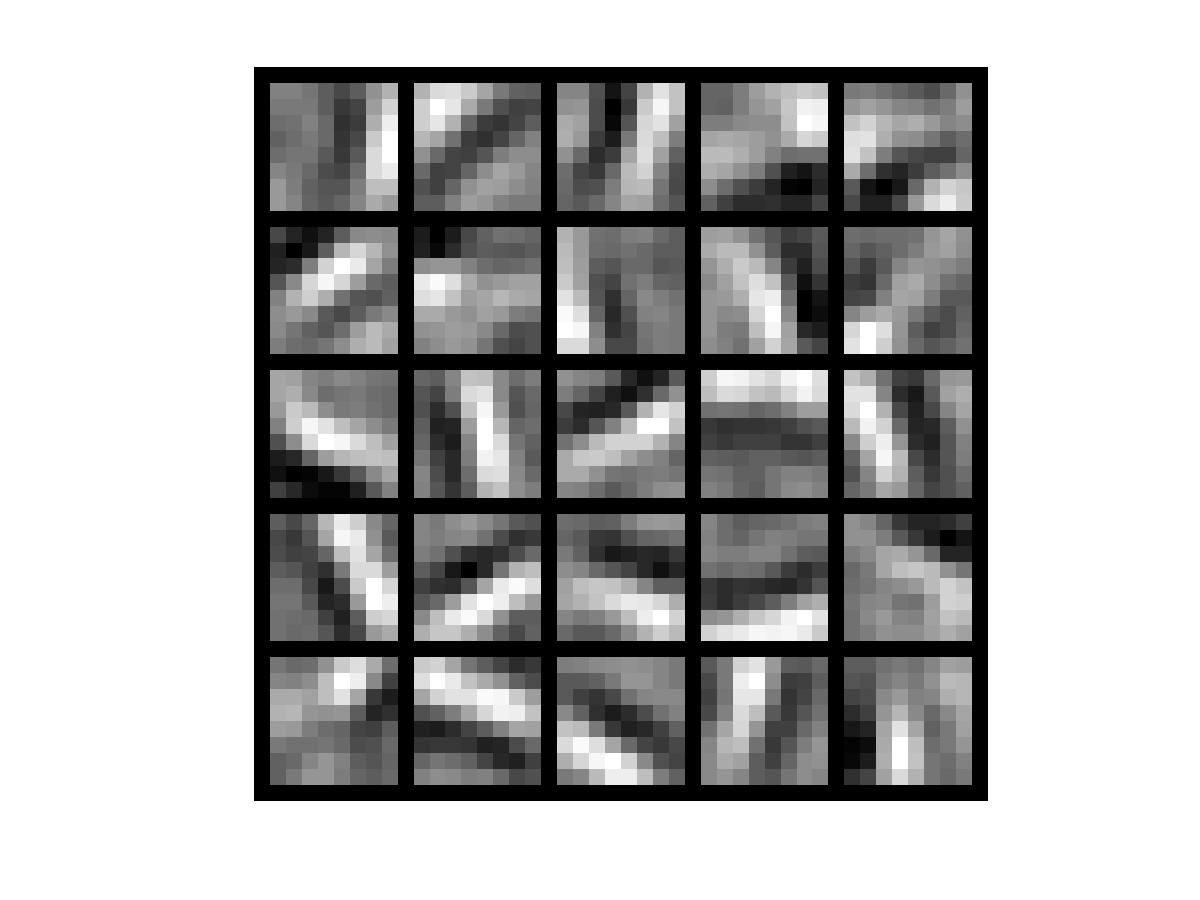
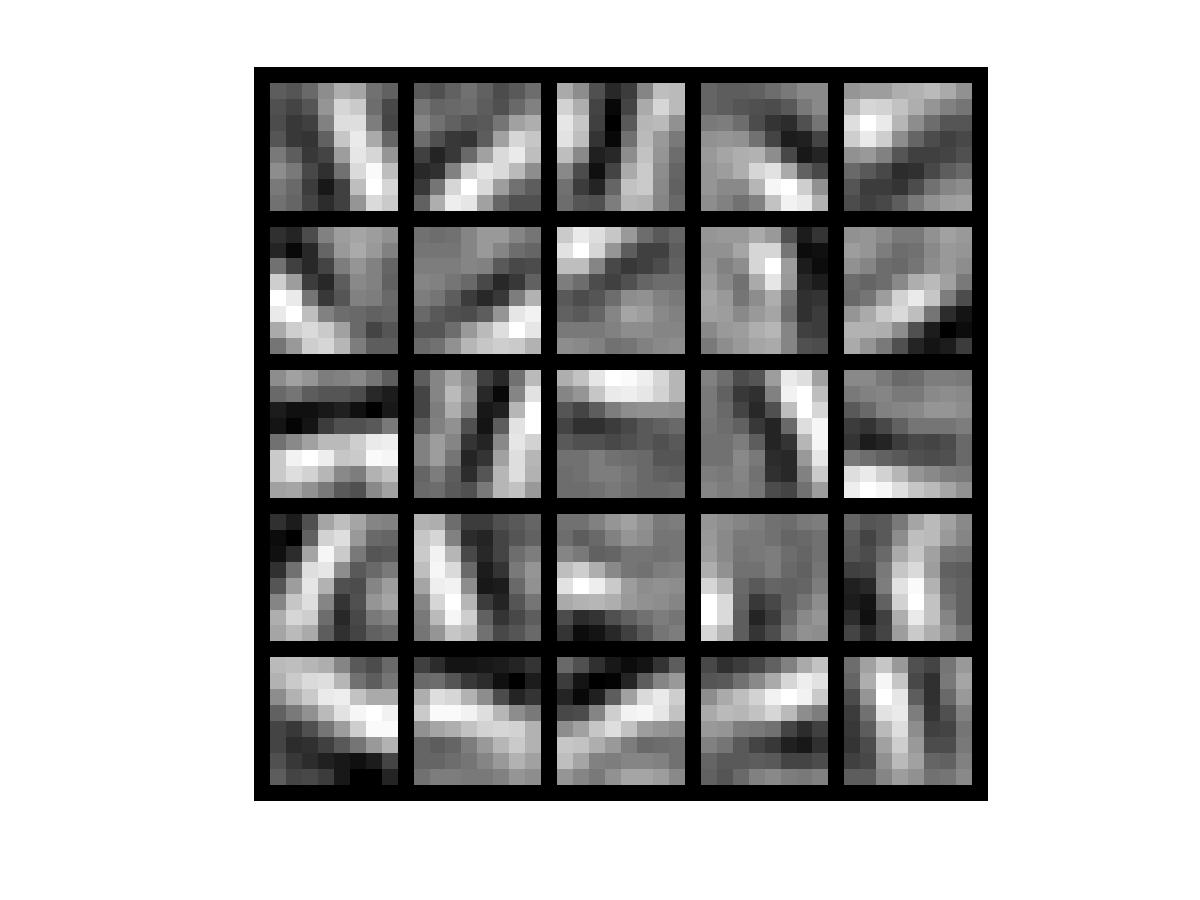
sparse autoencoder
the non-vectorial and vectorial method is different,the later
is fast

Changed region(s): [[0.2158, 0.0933, 0.8325, 0.8711]]

diff --git a/sparseae_exercise/train.m b/sparseae_exercise/train.m
@@ -14,12 +14,12 @@
 %  allow your sparse autoencoder to get good filters; you do not need to 
 %  change the parameters below.
 
-visibleSize = 8*8;   % number of input units (96*96)
-hiddenSize = 25;     % number of hidden units (196)
+visibleSize = 8*8;   % number of input units 
+hiddenSize = 25;     % number of hidden units 
 sparsityParam = 0.01;   % desired average activation of the hidden units.
                      % (This was denoted by the Greek alphabet rho, which looks like a lower-case "p",
-		     %  in the lecture notes). (0.1)
-lambda = 0.0001;     % weight decay parameter(3e-3)       
+		     %  in the lecture notes). 
+lambda = 0.0001;     % weight decay parameter    
 beta = 3;            % weight of sparsity penalty term       
 
 %======================================================================
@@ -31,15 +31,8 @@ beta = 3;            % weight of sparsity penalty term
 patches = sampleIMAGES;
 display_network(patches(:,randi(size(patches,2),200,1)),8);
 
-% images = loadMNISTImages('train-images.idx3-ubyte');
-% labels = loadMNISTLabels('train-labels.idx1-ubyte');
+
  
-% We are using display_network from the autoencoder code
-%display_network(images(:,1:1000)); % Show the first 100 images
-%disp(labels(1:10));
-
-
-%patches = images(:,1:1000);
 
 
 %  Obtain random parameters theta
@@ -86,25 +79,25 @@ theta = initializeParameters(hiddenSize, visibleSize);
 % simple function.  After you have implemented computeNumericalGradient.m,
 % run the following: 
 
-checkNumericalGradient();
-
-% Now we can use it to check your cost function and derivative calculations
-% for the sparse autoencoder.  
-
-numgrad = computeNumericalGradient( @(x) sparseAutoencoderCost(x, visibleSize, ...
-                                                  hiddenSize, lambda, ...
-                                                  sparsityParam, beta, ...
-                                                  patches), theta);
-
-% Use this to visually compare the gradients side by side
-disp([numgrad grad]); 
-
-% Compare numerically computed gradients with the ones obtained from backpropagation
-diff = norm(numgrad-grad)/norm(numgrad+grad);
-disp(diff); % Should be small. In our implementation, these values are
-            % usually less than 1e-9.
-
-            % When you got this working, Congratulations!!! 
+% checkNumericalGradient();
+% 
+% % Now we can use it to check your cost function and derivative calculations
+% % for the sparse autoencoder.  
+% 
+% numgrad = computeNumericalGradient( @(x) sparseAutoencoderCost(x, visibleSize, ...
+%                                                   hiddenSize, lambda, ...
+%                                                   sparsityParam, beta, ...
+%                                                   patches), theta);
+% 
+% % Use this to visually compare the gradients side by side
+% disp([numgrad grad]); 
+% 
+% % Compare numerically computed gradients with the ones obtained from backpropagation
+% diff = norm(numgrad-grad)/norm(numgrad+grad);
+% disp(diff); % Should be small. In our implementation, these values are
+%             % usually less than 1e-9.
+% 
+%             % When you got this working, Congratulations!!! 
 
 %======================================================================
 % STEP 4: After verifying that your implementation of
@@ -124,7 +117,6 @@ options.Method = 'lbfgs'; % Here, we use L-BFGS to optimize our cost
 options.maxIter = 400;	  % Maximum number of iterations of L-BFGS to run 
 options.display = 'on';
 
-% options.Corr=1;
 
 [opttheta, cost] = minFunc( @(p) sparseAutoencoderCost(p, ...
                                    visibleSize, hiddenSize, ...
